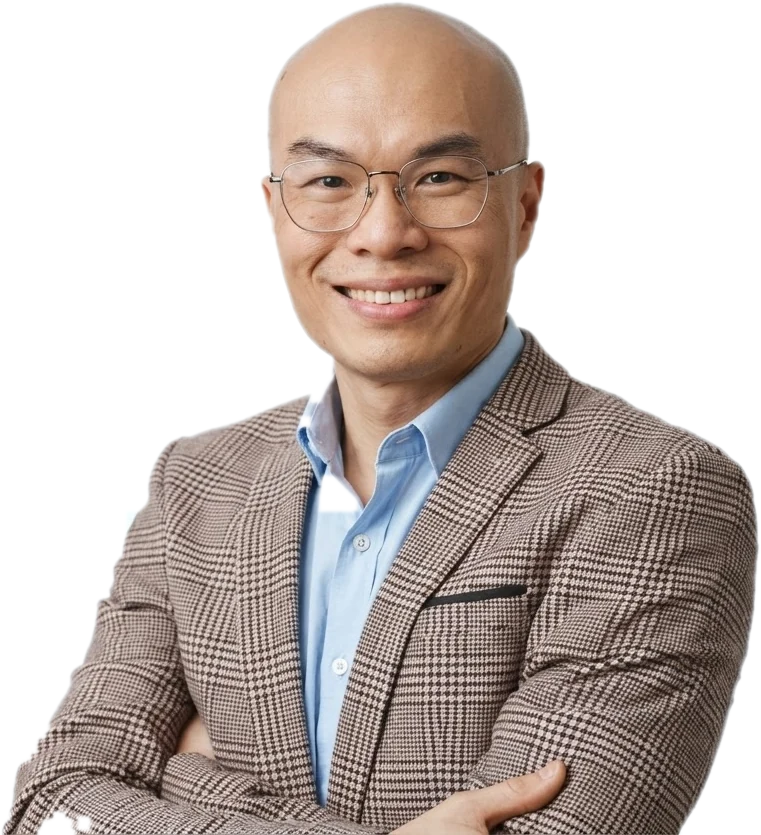
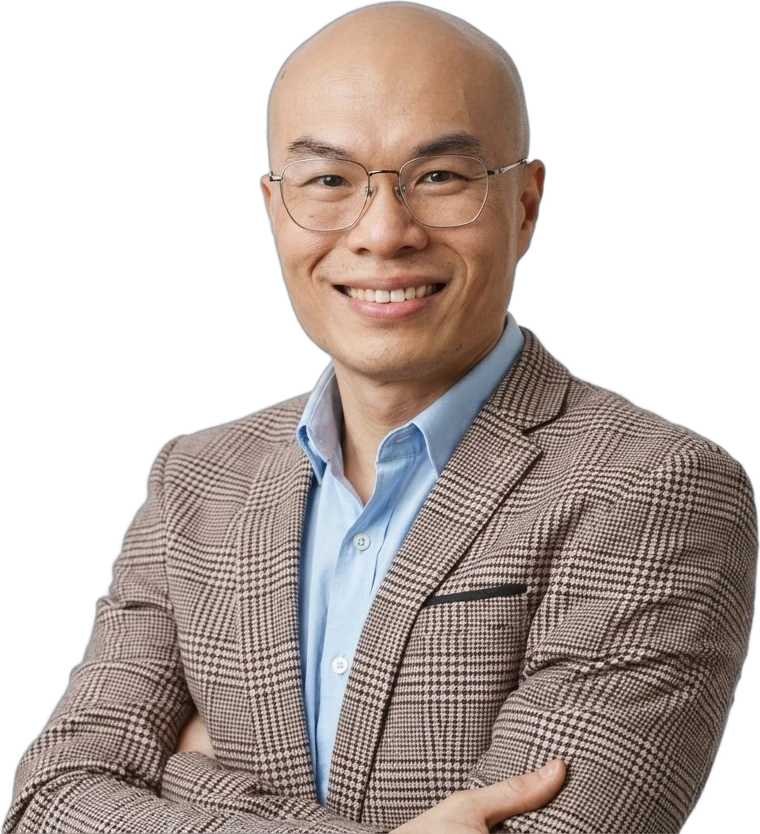
Fix dark-mode hero photo background removal (#7)
* Build portfolio, CV, admin CMS and Thinking in Signals book portal

Claude-Session: https://claude.ai/code/session_01J1t6y8KcRp9BJSYEWD65hy

* Add production-only Vercel deploy workflow with old-deployment cleanup

Disable Vercel's own Git-triggered (preview) builds; deploys now run from
GitHub Actions on push to main and prune all but the latest deployment.

Claude-Session: https://claude.ai/code/session_01J1t6y8KcRp9BJSYEWD65hy

* Run Neon migrations and idempotent seed in the production deploy workflow

Claude-Session: https://claude.ai/code/session_01J1t6y8KcRp9BJSYEWD65hy

* Seed all book chapters as drafts

Claude-Session: https://claude.ai/code/session_01J1t6y8KcRp9BJSYEWD65hy

* Apply migrations via drizzle neon-http migrator (drizzle-kit migrate fails in CI)

Claude-Session: https://claude.ai/code/session_01J1t6y8KcRp9BJSYEWD65hy

* CI: print safe diagnostics about DATABASE_URL before migrating

Claude-Session: https://claude.ai/code/session_01J1t6y8KcRp9BJSYEWD65hy

* Deploy: let Vercel build remotely and migrate/seed in its build command

vercel pull returns a placeholder for Sensitive env vars, so CI could not
read DATABASE_URL. Remote builds see the real values.

Claude-Session: https://claude.ai/code/session_01J1t6y8KcRp9BJSYEWD65hy

* Redesign: warm, human look; light by default; photo cut-outs per theme

Claude-Session: https://claude.ai/code/session_01J1t6y8KcRp9BJSYEWD65hy
[…]

diff --git a/src/components/Portrait.tsx b/src/components/Portrait.tsx
@@ -45,7 +45,7 @@ export function Portrait({ profile }: { profile: Profile }) {
             <>
               {/* eslint-disable @next/next/no-img-element -- static, pre-optimised cut-outs */}
               <img src="/img/portrait-light.webp" alt={profile.fullName} width={627} height={838} className={`portrait-light ${img} h-full`} fetchPriority="high" />
-              <img src="/img/portrait-dark.webp" alt={profile.fullName} width={761} height={835} className={`portrait-dark ${img} h-[92%]`} loading="lazy" />
+              <img src="/img/portrait-dark.webp" alt={profile.fullName} width={760} height={834} className={`portrait-dark ${img} h-[92%]`} loading="lazy" />
               {/* eslint-enable @next/next/no-img-element */}
             </>
           )}

diff --git a/scripts/cutout_rembg.py b/scripts/cutout_rembg.py
@@ -1,0 +1,17 @@
+#!/usr/bin/env python3
+"""Higher-quality background removal (used for public/img/portrait-dark.webp).
+Usage: python3 scripts/cutout_rembg.py in.jpg out.webp [model]   (default model: birefnet-portrait)
+Needs: pip install "rembg[cpu]" pillow   (downloads the model on first run)"""
+import sys
+from PIL import Image
+from rembg import new_session, remove
+
+src, out = sys.argv[1], sys.argv[2]
+model = sys.argv[3] if len(sys.argv) > 3 else "birefnet-portrait"
+img = Image.open(src).convert("RGB")
+rgba = remove(img, session=new_session(model))
+bbox = rgba.getchannel("A").point(lambda v: 255 if v > 8 else 0).getbbox()
+rgba = rgba.crop((bbox[0], bbox[1], bbox[2], img.height))  # keep the photo's bottom edge
+rgba.thumbnail((1000, 1000))
+rgba.save(out, "WEBP", quality=90, method=6)
+print(out, rgba.size)
